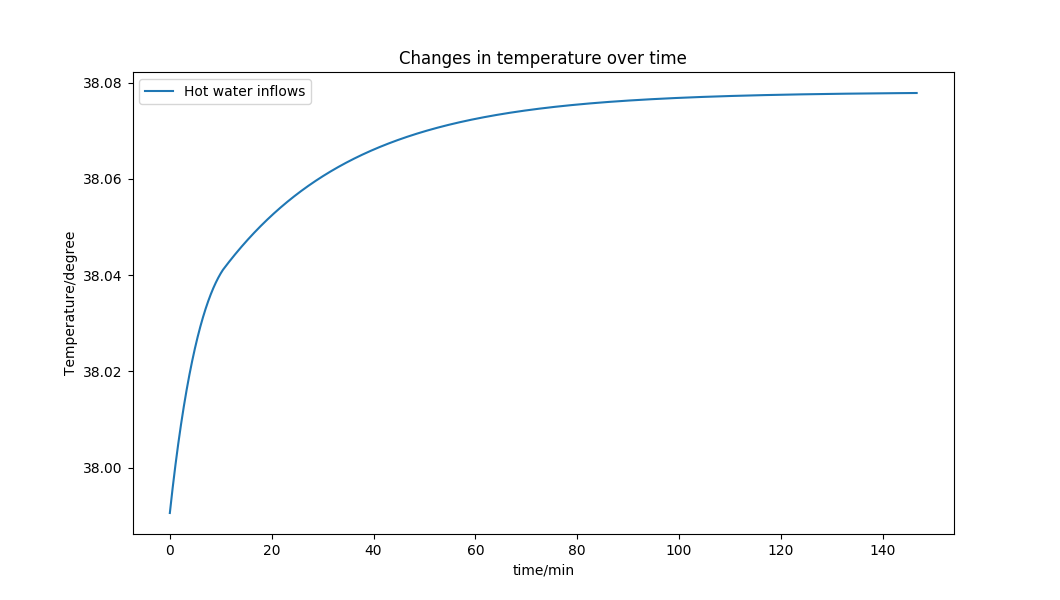
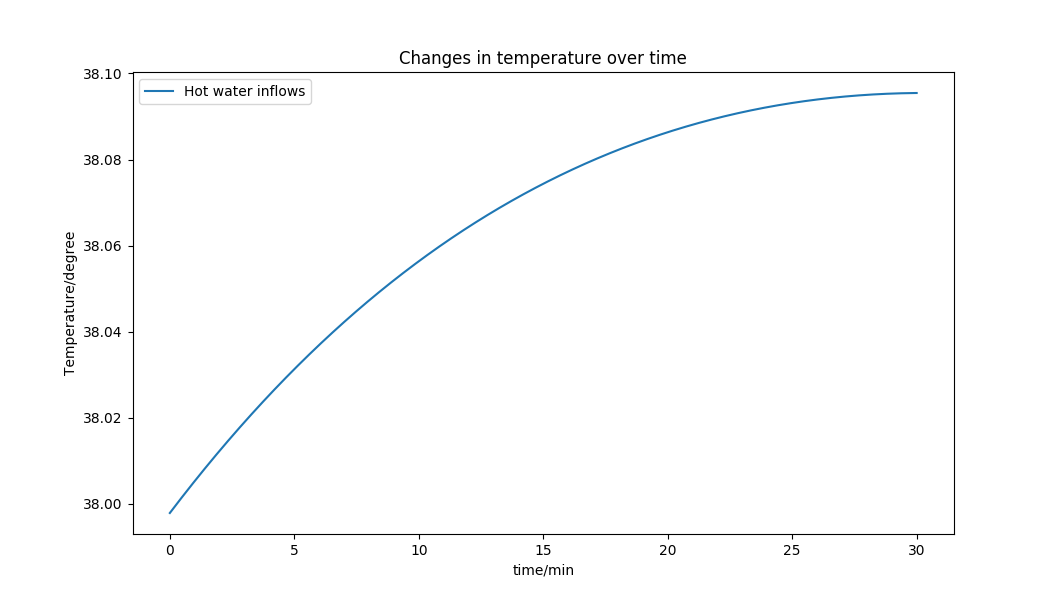
添加仿真图

diff --git a/MCM2016.tex b/MCM2016.tex
@@ -140,8 +140,11 @@ C_{p}=1.005KJ/(kg\cdot K)
 \begin{equation}
 \begin{split}
 Q_{upper}&=\int_{upper} dQ\\
+&= \int_{upper}\alpha (t-\theta)+\beta ({p}''_{v}-p_{v})+\varepsilon \sigma (t+273)^{4}dS	\\
+&=[\alpha (t-\theta)+\beta ({p}''_{v}-p_{v})+\varepsilon \sigma (t+273)^{4}]\cdot S_{1}\
 \end{split}
 \end{equation}
+\subsection{side area of bathtub heat loss model} 	%4.2
 \indent The heat dissipated area is the contact part between bathtub and liquid.So we just need to think about the effect of contact area. For the water in the side surface of the bathtub is not in direct contact with the air, there will be no evaporation. Therefore there will not be $ dQ_{b} $ in the 
 
 \section{Model of hot water addition}
@@ -192,9 +195,11 @@ S_{1}=\frac{\pi AB}{4}
 \end{equation}
 \indent And area of the lower surface is\\
 \begin{equation}
-	S_{1}=\frac{\pi (A-2d)(B-2d\frac{B}{A})}{4}
+	S_{2}=\frac{\pi (A-2d)(B-2d\frac{B}{A})}{4}
 \end{equation}
 \indent In order to calculate the contact area between the liquid and side of the bathtub, we use the calculus method.
+
+
 
 \subsubsection{Bathtub based on circles}
 \begin{figure}[H]
@@ -202,7 +207,9 @@ S_{1}=\frac{\pi AB}{4}
 \caption{The shape of bathtub based on circles}
 \label{circle}	
 \end{figure}
-\subsubsection{result}
+\noindent
+\textbf{Simulation Result}\\\\
+We
 
 \subsection{The effect of human body and body temperature on the model}
 %subsection 4.1
@@ -243,194 +250,21 @@ v=\frac{m}{\rho }=\frac{m}{1.06\times 10^{3}}(m^{3})
 \end{equation}
 \subsubsection{result}
 
-
-\subsection{Task 2}%subsection 5.2
-
-According to the current researches on urban planning of our chosen cities (Columbia.SC and Zhenjiang), we adopt quantization analysis of plans or policies. Then we obtain the following policy conclusion:\\
-%%政府政策
-\begin{table}[h]
-
-\centering
-\centering{Table 2:Current Plan}
-\begin{tabular}{p{5.2cm}|p{1.2cm}|p{5.2cm}|p{1.2cm}}
-\hline
-\bf Zheiang 5 years	 & \bf change	 & \bf Columbia 5 years	& \bf change \\
-\hline
- per capita GDP(yuan/person)	& +8\%	& per capita disposable income( yuan)	& +5\% \\
-production of tertiary industry ratio(\%)	& to 50\%	& per capita green spaces($m^2$)	& +4\% \\
-per capita disposable income(yuan)	& +8.5\%	& average wages of staff(yuan)	& +5\% \\
-tourist income ratio in GDP(\%)	& +100\%	& sewage treatment ratia(\%)	& to 99\% \\
-total export(100 million dollars)	& +50\%	& high school enrollment(10000 person)	& +8\% \\
-amount of doctors (per ten thousand)	& +10\%	& per capita living space($m^2$)	& +7\% \\
-per captia area of roads(urban,$m^2$)	& +10\%	& green cover in built up area(\%)	& +5\% \\
-\hline
-\end{tabular}
-\end{table}
-
-\noindent Using SGI model, we can obtain SGI of two cities after implementing the current plan. Also, we can obtain original SGI on the basis of original data. Based on the method in section 4, we can get the following result by way of matlab.\\
-
-%%政府政策中SGI总和
-\begin{table}[h]
-\setlength{\abovecaptionskip}{0pt}
-\setlength{\belowcaptionskip}{0pt}
-\centering{Table 3:SGI of Current Plan}
-\begin{tabular}{p{3.3cm}|p{3cm}|p{3cm}|p{3.3cm}}
-\hline
-City	& $SGI_0$ (2014)	& $SGI$ (2020)	& $\Delta SGI$ \\
-\hline
-Zhenjiang	& 12.5126	& 14.3771	& 1.8645 \\
-columbia	& 13.962	& 14.1089	& 0.1469 \\
-\hline
-\end{tabular}
-\end{table}
-%%
-\noindent Through the analysis of the relative change in SGI of two cities, we can assess the success of the growth plan.\\
-Apparently, SGI of two cities both increases after implementing their own current growth plan. \\
-Thus, their current growth plan is both successful.\\
-\subsection{Task 3}%subsection 5.3
-\subsubsection{Our growth plans}%sub subsection 5.3.1
-Combining the current plans of two cities and ten principles of smart growth, we make the following growth plans for our cities over few decades.\\
-%%我们的计划
-\begin{table}[h]
-\setlength{\abovecaptionskip}{0pt}
-\setlength{\belowcaptionskip}{0pt}
-\centering{Table 4:Our Plan}
-\begin{tabular}{p{5.3cm}|p{1.2cm}|p{5.2cm}|p{1.2cm}}
-\hline
-\bf Zhenjiang 10 years	& \bf change	 & \bf Columbia 10 years	& \bf change \\
-\hline
- per capita GDP(yuan/person)	& +100\%	& per captia area of roads(urban,$m^2$)	& +15\% \\
-production of tertiary industry ratio(\%)	& to 55\%	& ability of harmless treatment planet(ton)	& +100\% \\
-total export(100 million dollars)	& +100\%	& tourist income ratio in GDP(\%)	& +100\% \\
-per capita disposable income(yuan)	& +100\%	& amount of professionals(10000 person)	& +50\% \\
- per capita green spaces($m^2$)	& +20\%	& expenditure in education ratio in GDP	& to 10\% \\
- high school enrollment(10000 person)	& +100\%	& high school enrollment(10000 person)	& +50\% \\
-total social labor productivity(yuan)	& +200\%	& amount of ward beds(per ten thousand)	& +30\% \\
-amount of ward beds(per ten thousand)	& +20\%	& per capita green spaces($m^2$)	& +10\% \\
-\hline
-\end{tabular}
-\end{table}
-
-%%
-\subsubsection{Reasons for choosing these initiatives}%sub subsection 5.3.2
-Ten principles of smart growth can be reflected in the detailed of indictors. Thus, in the process of making our smart growth plans, we just need to choose appropriate indictors supported by policies on basis of geography and economic development.\\
-
-\noindent For Zhenjiang, as manufacturing industry basement in middle and lower reaches of Yangtze River in China, adept in manufacturing and export, we can stimulate its export in our plan, which can accelerate the development of city. Even though economic development is on the agenda, the environment and medical level is as important as economic development. Thus, we also give priority to relative indictors of these elements in our smart growth plan. \\
-For Columbia.SC, its economy and livelihood have higher level, thus we put its emphasis on education, technology and protection of environment. In the meanwhile, tertiary industry should be developed rapidly, which plays important role in urban development. \\
-\noindent Therefore, we make these smart growth plans above for both cities. \\
-\subsubsection{Assessment of the success of our smart growth plans}%sub subsection 5.3.3
-Based on the method in task 2, we can obtain the changes in SGI of two cities by way of matlab after implementing our growth plans.\\
-%%我们的计划中SGI总和
-\begin{table}[h]
-\setlength{\abovecaptionskip}{0pt}
-\setlength{\belowcaptionskip}{0pt}
-\centering{Table 5:SGI of Our Plan}
-\begin{tabular}{p{3cm}|p{3cm}|p{3cm}|p{3cm}}
-\hline
-City	& $SGI_0$ (2014)	& $SGI$ (2025)	& $\Delta SGI$ \\
-\hline
-Zhenjiang	& 12.5126	& 15.4329	& 2.9023 \\
-columbia	& 13.962	& 15.092	& 1.13\\
-\hline
-\end{tabular}
-\end{table}
-
-%%
-\noindent Apparently, SGI of two cities both increases after implementing our smart growth plan. Therefore, our smart growth plans are successful in the chosen cities through analysis.\\
-\subsection{Task 4}%subsection 5.4
-\subsubsection{Assessment of the importance of each initiative}%sub subsection 5.4.1
-In this task, we need to rank our chosen initiatives of our smart growth plan. Thus, we can compare the importance of each initiative to complete this task.\\
-On basis of the method mentioned in 4.2 of section 4 and SGI model, we can obtain the   following ranking of each city by way of matlab.\\
-%%计划排名
-\begin{table}[h]
-\setlength{\abovecaptionskip}{0pt}
-\setlength{\belowcaptionskip}{0pt}
-\centering{Table 6:Ranking of initiatives}
-\begin{tabular}{p{1cm}|p{7cm}|p{1.3cm}|p{1.4cm}|p{1.4cm}}
-\hline
-\hline
-\rowcolor[gray]{0.9}\multicolumn{5}{c}{Columbia}\\
-\hline
-\bf rank & \multicolumn{2}{|c|}{ \bf  initiatives} & \bf SGI	&  \bf $\Delta SGI$ \\
-\hline
-1	& tourist income ratio in GDP(\%)	& +100\%	& 14.3194	& 0.3574 \\
-2	& high school enrollment(10000 person)	& +50\%	& 14.2334	& 0.2714 \\
-3	& ability of harmless treatment planet(ton)	& +100\%	& 14.1711	& 0.2090 \\
-4	& amount of professionals(10000 person)	& +50\%	& 14.0586	& 0.0966 \\
-5	& expenditure in education ratio in GDP	& to 10\%	& 13.9929	& 0.0309 \\
-6	&  amount of ward beds(per ten thousand)	& +30\%	& 13.9838	& 0.0218 \\
-7	& per capita green spaces($m^2$)	& +10\%	& 13.9811	& 0.0190 \\
-8	& per captia area of roads(urban,$m^2$)	& +15\%	& 13.9726	& 0.0106 \\
-\hline
-\hline
-\rowcolor[gray]{0.9}\multicolumn{5}{c}{Zhenjiang}\\
-\hline
-\bf rank & \multicolumn{2}{|c|}{ \bf  initiatives} & \bf SGI	&  \bf $\Delta SGI$ \\
-\hline
-1	& total export(100 million dollars)	& +100\%	& 14.4935	& 1.9809 \\
-2	&  high school enrollment(10000 person)	& +100\%	& 13.0236	& 0.5109 \\
-3	& per capita disposable income(yuan)	& +100\%	& 12.6755	& 0.1628 \\
-4	& total social labor productivity(yuan)	& +200\%	& 12.6102	& 0.0975 \\
-5	&  per capita GDP(yuan/person)	& +100\%	& 12.5504	& 0.0377 \\
-6	& amount of ward beds(per ten thousand)	& +20\%	& 12.5304	& 0.0177 \\
-7	&  per capita green spaces($m^2$)	& +20\%	& 12.5288	& 0.0161 \\
-8	& production of tertiary industry ratio(\%)	& to 55\%	& 12.5128	& 0.0002 \\
-\hline
-\end{tabular}
-\end{table}
-
-%%
-\subsubsection{Analysis of the ranking}%sub subsection 5.4.2
-Evidently, the ranking proves the reasonability of our plans' emphasis.\\
-The ranking of the same initiatives of both cities is the same (education, medical level and green spaces). Thus, each of these indictors play the same role in urban development.  
-Giving thought to national conditions of both cities, Zhenjiang's emphasis is economic development while Columbia's is soft strength of society like education, as well as technology and tertiary industry. The ranking of each city's initiatives is correspond to our reasons for choosing these initiatives. \\
-\subsection{Task 5}%subsection 5.5
-In the case of that the population of city will increase 50\% by 2050, we analyze our group of indictors. We find that the increase of population has negative effects on population density, per capita green spaces and per capita living space so on.\\
-Due to population density and per capita living space not under the control of governmental policies or plans, we neglect these indictors in our smart growth plan.\\
-For Columbia.SC and Zhenjiang there are several initiatives like $per$ $capita$ $green$ $spaces$ and $amount$ $of$ $ward$ $beds(per$ $ten$ $thousand)$\\
-These implements all can effectively curb the negative impacts of the increase of population. \\
-
 %Section 6
 \section{Sensitivity analysis}
 \subsection{Selection of indictors}%subsection 6.1
-The aim of this analysis is to determine whether a single variable had an unduly large impact on the overall ranking. To test this, we randomly exclude variables/themes from the index several times. The rest of variables/themes can use the same method to aggregation smart growth index (SGI). Observe and analyze the distribution of SGI of two cities.\\
-%%盒型图
-\centerline{\includegraphics[height=8cm]{boxplot.png}}
-\centerline{Figure2:boxplot}
-As is shown in the figure of statistics, the SGI of Columbia.SC is generally higher than that of Zhenjiang. The SGI of Zhenjiang is more sensitive to that of Columbia.SC. The result proves that SGI of Zhenjiang benefits from some indictors in degrees. In other words, the development of Columbia.SC is more balanced than that of Zhenjiang.\\
 \subsection{Selection of aggregation method}%subsection 6.2
-In Task 1, we compare linear aggregation with geometric aggregation in advantages. For that reason, we finally decided to use linear aggregation to combine individual variables into the theme scores and geometric aggregation to combine theme scores into SGI.\\
-We tried to use geometric aggregation to combine individual variables into the theme scores. And we observe that the calculated SGI using different data may varies in difference.\\
-Our model is sensitive to the selection of aggregation method.\\
-
 %Section 7
 \section{Strengths and weaknesses}
 \subsection{Strengths}%subsection 7.1
-\begin{itemize}
-\item Our model establishes a detailed group of 52 indictors, which reflects the ten principles for smart growth and the three E's of sustainability. On basis of this, we can assess the success of smart growth of a city.
-\item In the construction of SGI model, we use linear aggregation to combine individual variables into the theme scores. Compensability of linear aggregation ensures fair assessment of different cities which have different emphasis in urban development. Then we use geometric aggregation to combine theme scores into SGI.Low compensability of geometric aggregation requires a city to develop evenly in all themes. 
-\item We use entropy method to determine weights of indictors or themes, which avoid subjectivity.
-\item SGI model has an all-round and objective assessment of the success of smart growth of a city.
-\end{itemize}
+
 \subsection{Weakness}%subsection 7.2
-\begin{itemize}
-\item In our model, we regard the relationship between initiative and indictor as one to one. In reality, a plan can result in the change in other indictors(not included in plan) because of correlation between indictors. The real SGI may be different with our calculated SGI.
-\item In our model, we neglect the government's executive force.
-\end{itemize}
+
 
 
 \section{References}
 \begin{thebibliography}{99}
 \bibitem{1}Bannerjee,S.Bone,J.and Finger,Y.(2016).European Digital City Index-Methodology Report.Nesta Report-ISBN Number:978-1-84875-153-8
-\bibitem{2}\url{http://www.wolframalpha.com/input/?i=columbia,+sc}
-\bibitem{3}Jing Tan,Xiaoma Tao,Xu Chen.(2012).A Synthetic Measurement of Urban "Smart Growth" Based on Improved Entropy Method.Resources and Environment in the Yangtze Basin
-\bibitem{4}Zhenjiang Statistical Yearbook,2014. Available at:\\
-\url{http://tjj.zhenjiang.gov.cn/tjzl/tjnj/}
-\bibitem{5}National Bureau of Statistics of China. Available at:\\
-\url{http://data.stats.gov.cn/}
-\bibitem{6}Data of Columbia.SC. Available at:\\
-\url{http://www.city-data.com/city/Columbia-South-Carolina.html}
-\bibitem{7}Yujuan Chen,Qifen Zha,Xiaolan Li.(2006).Application of Entropy Method in the Evaluation of Urban Sustainable Development.Journal of Jiangsu University(Social Science Edition)
 \end{thebibliography}
 
 \begin{appendices}

diff --git a/simluate.py b/simluate.py
@@ -1,31 +1,34 @@
 import math
 import matplotlib.pyplot as plt
 import numpy as np
+import random
+import scipy
 
 def circle_h(v):
-    r = 1.5
+    r = 0.75
     h = v/(math.pi*r*r)
     return h
 
 
 def circle_s1(v):
-    return math.pi* 2.25
+    return math.pi* 2.25/4
 
 
 def circle_s2(v):
-    return math.pi * 2.25
+    return math.pi * 0.25
 
 
 def circle_s3(h):
-    return 2*math.pi*1.5*h
+    return 2*math.pi*0.75*h
 
 
 class Bathtub:
-    def __init__(self,v_water,T,function_h,function_s1,function_s2,function_s3,v_person=0,h_person=0):
+    def __init__(self,v_water,T,target_T,function_h,function_s1,function_s2,function_s3,v_person=0,h_person=0):
         self.v_water = v_water
         self.h_person = h_person
         self.v_person = v_person
         self.v_water = v_water
+        self.target_T = target_T
         self.function_h = function_h
         self.function_s1 = function_s1
         self.function_s2 = function_s2
@@ -37,6 +40,14 @@ class Bathtub:
         self.alpha = 0.653*self.beta
         self.sigma = 5.432e-8
         self.deltaP = 0.6*self.p2
+
+        self.pid_p = 0.02
+        self.pid_i = 0
+        self.pid_d = 0
+        self.pid_int_i=0
+
+        self.total_v = 0
+        self.int_error = 0
 
     @property
     def p2(self):
@@ -84,38 +95,52 @@ class Bathtub:
 
     def heat_loss(self,bubble=0):
         self.Q = self.Q - self.radiate_loss(self.s1,1)*(1-bubble*0.04) - self.radiate_loss(self.s2+self.s3,0.94) \
-         - self.alpha*(self.T-self.theta)*self.s1 - (self.beta * self.deltaP)*(1-bubble)
+         - self.alpha*(self.T-self.theta)*self.s1 - (self.beta * self.deltaP)*(1-bubble) \
+         - (self.s1 + self.s2 + self.s3)*(self.T- self.theta)/0.16*0.19
 
+    def pid(self):
+        output = self.pid_p*(self.target_T-self.T)
+        if output>0:
+            if output>0.0001:
+                return 0.0001
+            return output
+        return 0
+
+    def random_action(self):
+        if random.random()>0.98:
+            loss_water_v=0.0005
+            self.v_water -= loss_water_v
+            self.Q -= self.T * 1000 * 4200 * loss_water_v
+
+    def simluate(self, dv,label,time=1800, bubble=0):
+        t = [0] * time
+        x_label = np.linspace(0, time / 60, time)
+        self.total_v=0
+        self.int_error=0
+        for i in range(time):
+            self.heat_loss(bubble)
+            t[i] = self.T
+            self.total_v += dv
+            self.int_error += pow(self.T - self.target_T,2)
+            # circle2.random_action()
+            self.input(dv, 50)
+            self.check()
+        plt.plot(x_label,t,label=label)
+        return self.total_v,self.int_error
+
+
+
+
+circle = Bathtub(0.2, 38,38, circle_h, circle_s1, circle_s2, circle_s3)
+circle2 = Bathtub(0.2, 38,38, circle_h, circle_s1, circle_s2, circle_s3)
 
 plt.figure(figsize=(10.6,6))
-circle = Bathtub(0.2, 38, circle_h, circle_s1, circle_s2, circle_s3)
-
-time=8800
-t=[0]*time
-x_label=np.linspace(0,time/60,time)
-print(circle.p2)
-for i in range(time):
-    circle.heat_loss()
-    t[i] = circle.T
-    circle.input(0.00016,50)
-    circle.check()
-
-plt.plot(x_label,t,label='Hot water inflows')
-
-'''
-circle2 = Bathtub(0.2, 38, circle_h, circle_s1, circle_s2, circle_s3)
-for i in range(time):
-    circle2.heat_loss(bubble=1)
-    t[i] = circle2.T
-    circle2.input(0.00016, 50)
-    circle2.check()
-
-plt.plot(x_label,t,label='No hot water inflows')
-'''
 plt.title('Changes in temperature over time')
 plt.xlabel('time/min')
 plt.ylabel('Temperature/degree')
 plt.legend()
+
+print(circle.simluate(0.00004,label="With hubble-bubble",bubble=1))
 
 plt.show()
 
